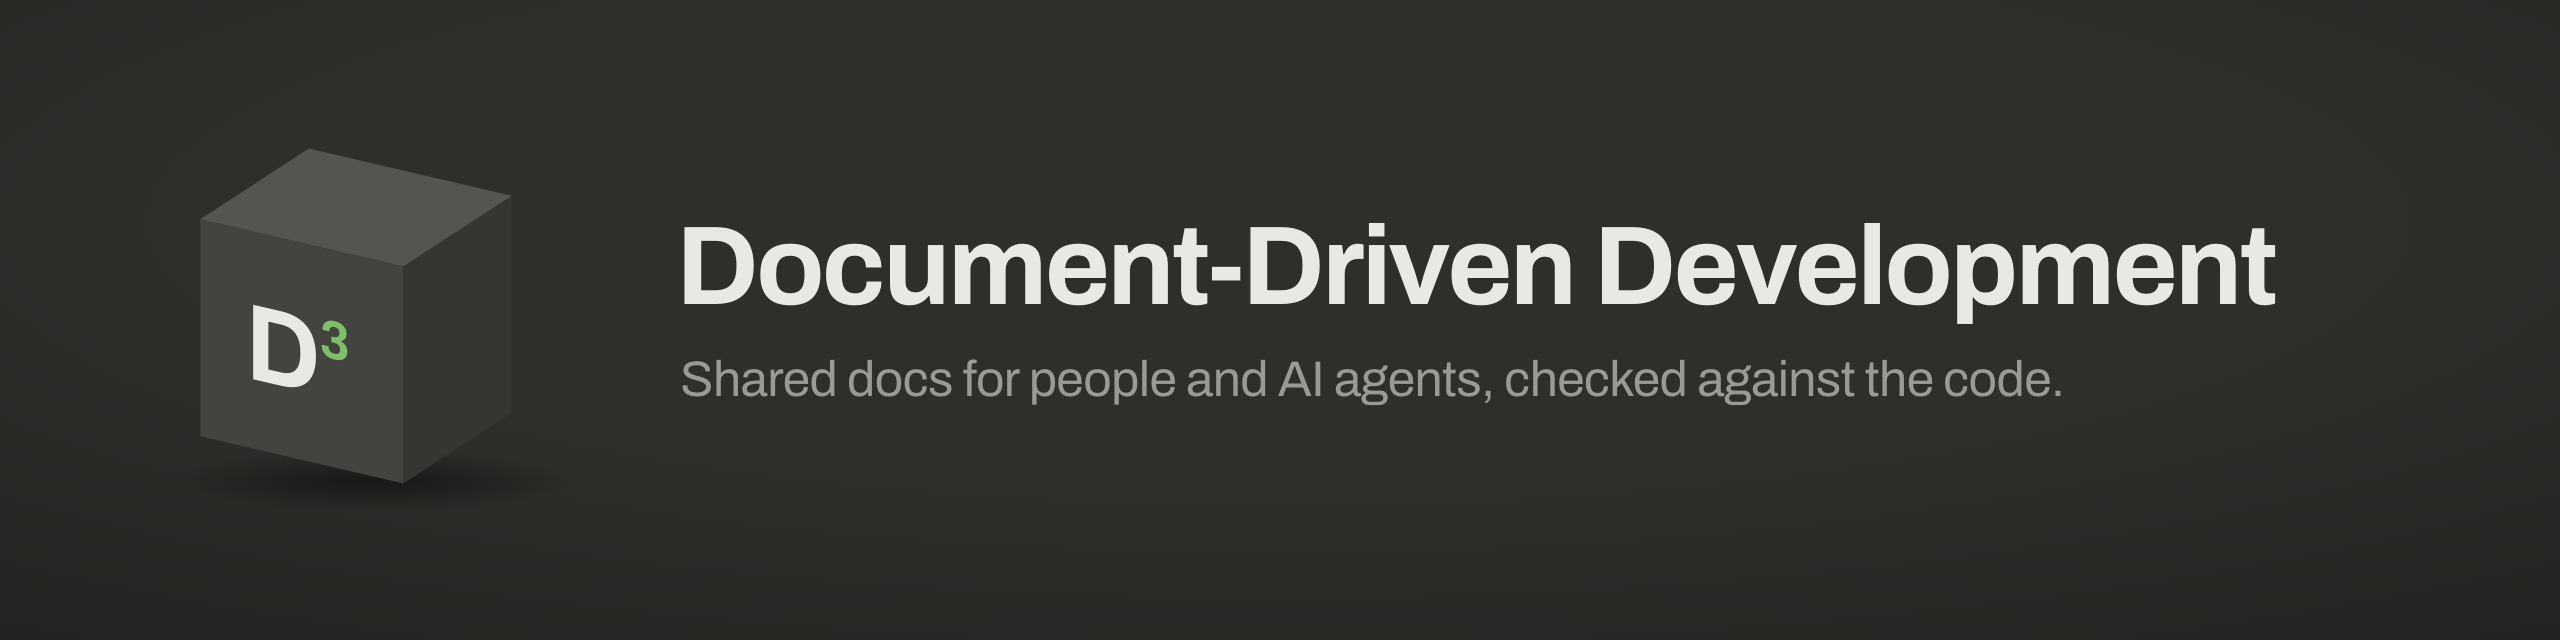
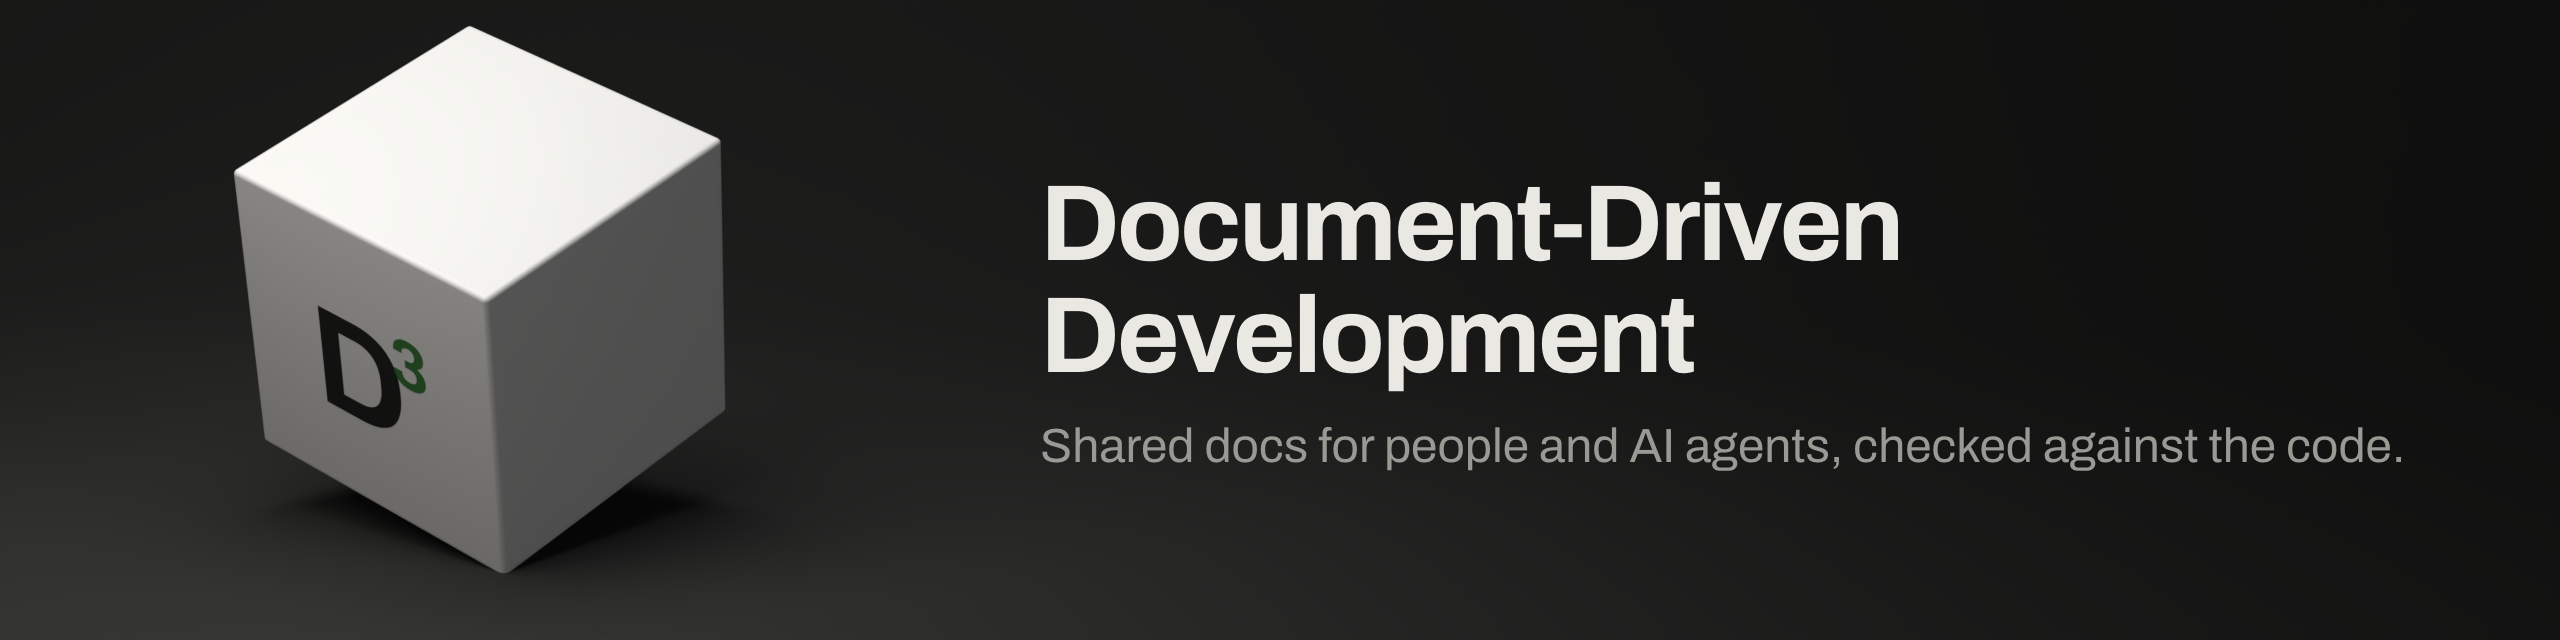
docs(readme): rewrite for people new to D³; loop diagram, film link, rendered brand
Plain intro (Jira, wiki, chat and heads), a numbered loop diagram in light and
dark, a link to the 78-second film on the v2.0.0 release, and a "Who it's for"
and "Works with any AI assistant" section above the reference material.
Banner and plugin icon are now Cycles product renders in the Braun palette.

diff --git a/README.md b/README.md
@@ -1,6 +1,6 @@
 <picture>
   <source media="(prefers-color-scheme: dark)" srcset="assets/banner-dark.png">
-  <img alt="Document-Driven Development (D³): docs your coding agent can work from, kept true in CI" src="assets/banner-light.png">
+  <img alt="Document-Driven Development (D³): shared docs for people and AI agents, checked against the code" src="assets/banner-light.png">
 </picture>
 
 [![CI](https://github.com/abuammarsami/d3/actions/workflows/ci.yml/badge.svg)](https://github.com/abuammarsami/d3/actions/workflows/ci.yml)
@@ -11,13 +11,26 @@
 [![AGENTS.md](https://img.shields.io/badge/AGENTS.md-any%20agent-3f7f3b)](https://agents.md)
 [![docs-check](https://img.shields.io/badge/docs--check-zero%20deps-brightgreen)](tools/docs-check/README.md)
 
-> **The repo holds the docs, so neither the people nor the agents have to guess from the code.**
+Every software team knows things the code doesn't say: why a rule exists, what the team decided, which
+bugs were already fixed once. Some of it sits in Jira tickets, wiki pages and old chat threads, and
+some only in people's heads. It's spread out, it drifts out of date, and an AI assistant working in
+the repo usually can't see it.
+
+**D³ (Document-Driven Development) writes that knowledge down inside the project, as short plain pages
+that people and AI assistants both read, and checks in CI that the pages still match the code.**
+
+[![Watch the 80-second film](assets/film-poster.png)](https://github.com/abuammarsami/d3/releases/download/v2.0.0/d3-film.mp4)
+
+## See it work
 
 ![A real run of the docs check: a business rule cites src/quota.js#canPost; after the function is renamed, the check reports the drift with the file and line](assets/demo.gif)
 
-*A real run, not a mock-up: the rule cites a function, someone renames it, and the docs check catches the stale doc.*
+This is a real run. A business rule names the function that enforces it. Someone renames the
+function, and the docs check points at the page that is now out of date, with the file and line.
 
 ## Quick start
+
+In Claude Code:
 
 ```text
 /plugin marketplace add abuammarsami/d3
@@ -25,58 +38,66 @@
 /d3:init
 ```
 
-`init` is a dry run until you say yes, and never overwrites a file. Other agents (Codex, Cursor,
-Copilot, Gemini…) need nothing installed: the result is `AGENTS.md` and `docs/`, which they already
-read.
+`init` shows you every file it would create and waits for your yes. It never overwrites a file, and
+on a repo that already has docs it only reports what is missing.
 
-## Why
+## How it works
 
-Code says *what* the system does. It does not say **why** a rule exists, **which decisions** are
-settled, **what broke last time**, or **what was agreed** for the feature being built. On most
-teams that lives in a few people's heads and in chat history. An AI agent starting a session, or a
-new engineer starting a job, has to reverse-engineer it from the code — slowly, and often wrong.
+<picture>
+  <source media="(prefers-color-scheme: dark)" srcset="assets/loop-dark.png">
+  <img alt="The D³ loop. Set up once with /d3:init. Then, for every task: 1 before a task, /d3:prime finds the few pages that apply and gives them to your AI assistant; 2 build, you and your assistant work as usual; 3 write it down, /d3:capture puts a new decision, rule or fixed bug on its page; 4 check the work, /d3:review compares the change with what the team agreed; 5 keep the docs true, /d3:check in CI flags any page that no longer matches the code." src="assets/loop-light.png">
+</picture>
 
-**D³** makes the repo hold it, in one shared system:
+1. **Before a task**, `/d3:prime` finds the three to six pages that govern it (the plan, past
+   decisions, business rules, how the module works) and gives the assistant one line about each.
+2. **Build** as you normally would.
+3. **Write it down.** When you learn something, `/d3:capture` files it on the right page and asks
+   before it writes.
+4. **Check the work.** `/d3:review` compares the branch with the plan's acceptance criteria and the
+   decisions and rules it might break, and lists behaviour that changed with no page updated.
+5. **Keep the docs true.** On every pull request, the docs check runs with no AI and fails or warns
+   when a page is broken or points at code that changed.
 
-- **Typed homes** — every fact has exactly one place: a decision is an ADR, a shipped bug is a
-  dated audit, a rule is a business-rule page, how a module works *today* is its module reference.
-- **A loop** — `prime` loads the few docs a task needs before work starts; `capture` files what was
-  learned after; `review` checks a PR against what was agreed; `check` keeps it all true in CI.
-- **Plain Markdown for everyone** — people read it on GitHub, any agent reads it through
-  `AGENTS.md`, and the linter runs with no AI at all.
+The habits come from how large engineering teams already work: design docs with acceptance criteria,
+written decision records (ADRs), blameless incident reviews and docs checked in CI. D³ sets them up
+in one command, so a solo developer or a small team can use them without a documentation department.
 
-It is the practice big engineering organizations rely on — design docs with acceptance criteria,
-ADRs, blameless postmortems, PR templates, docs CI — packaged so a solo builder gets it in one
-command and an experienced team gets it without the ceremony.
+## Who it's for
+
+- **Developers at any level.** Juniors get the context seniors carry in their heads. Seniors stop
+  answering the same "why is it like this?" question.
+- **Solo builders and people who build by prompting.** Your assistant stops undoing decisions it never
+  knew about.
+- **Product, QA and business colleagues.** The pages are plain English on GitHub, so you can read
+  the rules and decisions without reading code.
+
+## Works with any AI assistant
+
+| Part | Where it runs |
+|---|---|
+| The commands (`/d3:init`, `prime`, `capture`, `review`, `check`, `spec`, `status`) | Claude Code, as a plugin |
+| The pages D³ writes (`docs/` and `AGENTS.md`) | Anywhere: Codex, Cursor, GitHub Copilot, Gemini and any person on GitHub read them with nothing installed |
+| The docs check | Any CI, or as a GitHub Action. No AI, no npm install |
 
 ---
 
-## The loop
+## Reference
 
-```mermaid
-flowchart LR
-  init["/d3:init<br/>set up docs, AGENTS.md,<br/>PR template, CI"] --> prime
-  prime["/d3:prime<br/>load the 3–6 docs<br/>the task needs"] --> build["build<br/>(you + your agent)"]
-  build --> capture["/d3:capture<br/>file what was learned<br/>in its one home"]
-  capture --> check["/d3:check<br/>linter: links, vocabulary,<br/>drift, coverage"]
-  check --> review["/d3:review<br/>PR vs plan, ADRs, rules;<br/>undocumented work"]
-  review --> prime
-  spec["/d3:spec<br/>optional PRD"] -.-> capture
-```
+### Commands
 
 | Command | What it does |
 |---|---|
-| `/d3:init [--backfill]` | Sets up `docs/` (taxonomy + machine-read vocabulary), templates, a lean `AGENTS.md` that `CLAUDE.md` imports, a PR template, the docs linter and its CI. **Dry run first, never overwrites**, and only *reports* on a repo that already has a docs system. `--backfill` drafts module references and *proposed* ADRs from existing code. |
-| `/d3:prime <task>` | Loads the plan, ADRs, rules, module reference and flow that govern the task as a **compact context pack** — a line per doc, not a dump. `--diff [base]` picks the docs that cite the files a branch changed. |
-| `/d3:capture --<kind> <what>` | Files new knowledge in its canonical home with the right template, then does the follow-through (indexes, the current-state doc, the docs check). **Lists the files and asks before writing.** |
-| `/d3:spec <feature>` | Optional product spec (PRD): problem, users, non-goals, prioritized stories with Given/When/Then, `FR-###`, `SC-###`, open questions marked `[NEEDS CLARIFICATION]` — never guessed. |
-| `/d3:check [--drift] [--fix]` | Runs the linter and turns its findings into fixes. |
-| `/d3:review [PR#\|branch]` | Read-only: which acceptance criteria the change satisfies, which ADR or rule it contradicts, what behaviour changed with no doc updated, which citations it broke. |
+| `/d3:init [--backfill]` | Sets up `docs/` with one place for each kind of knowledge and a machine-read vocabulary, page templates, a short `AGENTS.md` that `CLAUDE.md` imports, a PR template, the docs check and its CI. Dry run first, never overwrites, and only reports on a repo that already has a docs system. `--backfill` drafts module references and *proposed* ADRs from existing code. |
+| `/d3:prime <task>` | Loads the plan, ADRs, rules, module reference and flow that govern the task as a compact context pack, one line per doc. `--diff [base]` picks the docs that cite the files a branch changed. |
+| `/d3:capture --<kind> <what>` | Files new knowledge on its page with the right template, then updates the indexes, the current-state doc and runs the docs check. Lists the files and asks before writing. |
+| `/d3:spec <feature>` | Optional product spec (PRD): problem, users, non-goals, prioritised stories with Given/When/Then, `FR-###`, `SC-###`, and open questions marked `[NEEDS CLARIFICATION]` instead of guessed. |
+| `/d3:check [--drift] [--fix]` | Runs the docs check and turns its findings into fixes. |
+| `/d3:review [PR#\|branch]` | Read-only. Which acceptance criteria the change satisfies, which ADR or rule it contradicts, what behaviour changed with no doc updated, which citations it broke. |
 | `/d3:status` | What is in flight, overdue for review, undocumented, or not yet graduated. |
 
-`/d3:d3` prints the help; `/d3:d3 <verb>` routes to the verbs above.
+`/d3:d3` prints the help, and `/d3:d3 <verb>` routes to the commands above.
 
-### Example: the loop catching a real mistake
+### Example: a review catching a real mistake
 
 ```text
 > /d3:review main
@@ -92,50 +113,46 @@ Verdict: needs changes
 Follow-ups:   intended? /d3:capture --decision "Paid users post without a monthly limit", then update the rule
 ```
 
-*(From a smoke test of this release; trimmed.)*
+*From a smoke test of this release, trimmed.*
 
----
+### Where each kind of knowledge goes
 
-## What goes where
-
-| Kind of knowledge | Home | Capture with |
+| Kind of knowledge | Page | Capture with |
 |---|---|---|
 | Future work, with numbered acceptance criteria | `docs/plans/{module}/{kebab}/README.md` | `--plan` |
 | Product spec (optional PRD) | `docs/specs/NNN-{kebab}/spec.md` | `/d3:spec` |
-| A hard-to-reverse decision | `docs/architecture/decisions/adr-NNNN-{kebab}.md` (MADR) | `--decision` |
-| How the system fits / how a request moves | `docs/architecture/views/`, `docs/architecture/flows/` | `--architecture`, `--flow` |
-| How a module works **today** | `docs/reference/modules/{module}.md` | `--module` |
+| A decision that is hard to reverse | `docs/architecture/decisions/adr-NNNN-{kebab}.md` (MADR) | `--decision` |
+| How the system fits together, how a request moves | `docs/architecture/views/`, `docs/architecture/flows/` | `--architecture`, `--flow` |
+| How a module works today | `docs/reference/modules/{module}.md` | `--module` |
 | A domain, pricing or entitlement rule | `docs/reference/business-rules/{domain}.md` | `--rule` |
 | A rule where one wrong edit costs money | `docs/reference/algorithms/` | `--algorithm` |
 | Domain model, data model, threat model | `docs/reference/{domain,generated/data-model,security/threat-models}/` | `--domain`, `--data-model`, `--threat` |
-| A shipped bug — dated, immutable | `docs/reference/audits/YYYY-MM-DD-{kebab}.md` | `--bug` |
-| A production incident — blameless, owned action items | `docs/reference/incidents/` | `--incident` |
+| A shipped bug, dated and never edited later | `docs/reference/audits/YYYY-MM-DD-{kebab}.md` | `--bug` |
+| A production incident, blameless, with owned action items | `docs/reference/incidents/` | `--incident` |
 | Procedures, how-tos, onboarding | `docs/runbooks/`, `docs/guides/`, `docs/guides/tutorials/` | `--runbook`, `--guide`, `--tutorial` |
 | A word the code uses | `docs/reference/glossary.md` | `--term` |
 
 Your repo's own `docs/README.md` always wins over these defaults.
 
-**Plans graduate.** When a plan ships, what outlives it moves to its permanent home (the module
-reference, the rule, the flow), which links back. Nobody should have to read a stack of old plans —
-or the code — to learn how the system works today.
+**Plans graduate.** When a plan ships, what outlives it moves to its permanent page (the module
+reference, the rule, the flow), which links back. Nobody should have to read a stack of old plans, or
+the code, to learn how the system works today.
 
----
+### The docs check
 
-## The docs check
+A Node script with no dependencies (`tools/docs-check/check.mjs`, Node 18+). `/d3:init` copies it
+into your repo and wires it into CI. It needs no AI and no npm install.
 
-A zero-dependency Node script (`tools/docs-check/check.mjs`, Node 18+) that `/d3:init` copies into
-your repo and wires into CI. It needs no AI and no npm install.
-
-- **Errors** (fail CI): frontmatter outside the vocabulary, broken links and anchors, Mermaid that
-  does not parse, a reused ADR or spec number, an open `[NEEDS CLARIFICATION]` in a settled doc.
-- **Warnings** (configurable): live plans without numbered acceptance criteria, **code citations
-  that drifted** (`path#Symbol` / `path:line` whose file, lines or symbol are gone — or, with a lock,
+- **Errors** fail CI: frontmatter outside the vocabulary, broken links and anchors, Mermaid that does
+  not parse, a reused ADR or spec number, an open `[NEEDS CLARIFICATION]` in a settled doc.
+- **Warnings** are configurable: live plans without numbered acceptance criteria, code citations that
+  drifted (`path#Symbol` or `path:line` whose file, lines or symbol are gone or, with a lock file,
   whose code changed), screenshots under `docs/`, incident action items without an owner,
-  undocumented modules, plans that shipped without graduating.
-- **Helpers**: `review-due`, `cites <path>` (which docs describe this code?), `drift --changed <base>`,
+  undocumented modules, and plans that shipped without graduating.
+- **Helpers:** `review-due`, `cites <path>` (which docs describe this code?), `drift --changed <base>`,
   `lock`, `--json`.
 
-Use it as a GitHub Action without vendoring:
+Use it as a GitHub Action without copying it in:
 
 ```yaml
 - uses: actions/checkout@v4
@@ -146,64 +163,60 @@ Use it as a GitHub Action without vendoring:
 
 Full reference: [tools/docs-check/README.md](tools/docs-check/README.md).
 
----
+### How it compares
 
-## Why, and how it compares
+The longer write-up:
+[Document-Driven Development (D³): Docs Are the Interface Your AI Works Through](https://ammar-portfolio-zeta.vercel.app/deep-dives/document-driven-development).
 
-Context engineering beats prompt engineering: the win is the right durable knowledge in front of the
-model at the right moment. Read the writeup —
-**[Document-Driven Development (D³): Docs Are the Interface Your AI Works Through](https://ammar-portfolio-zeta.vercel.app/deep-dives/document-driven-development)**.
-
-| | Spec-driven tools (Spec Kit, Kiro, BMAD) | Memory banks / generated wikis | **D³** |
+| | Spec-driven tools (Spec Kit, Kiro, BMAD) | Memory banks, generated wikis | D³ |
 |---|---|---|---|
-| Scope | One feature, forward-looking | The whole repo | The whole repo, for its lifetime |
-| Knows *why* (decisions, rules, past bugs) | Inside the feature's spec | No — generated from code | Yes — ADRs, rules, audits, incidents |
-| Stays true after the feature ships | No | Regenerated | `capture` + graduation + drift check |
-| Enforced in CI without AI | No | No | Yes |
-| Works with any agent | Mostly | Per tool | Yes (`AGENTS.md` + Markdown) |
+| Scope | One feature, planned ahead | The whole repo | The whole repo, for its lifetime |
+| Knows why (decisions, rules, past bugs) | Inside that feature's spec | No, it is generated from code | Yes: ADRs, rules, audits, incidents |
+| Stays true after the feature ships | No | Regenerated | `capture`, graduation and the drift check |
+| Checked in CI without AI | No | No | Yes |
+| Works with any agent | Mostly | Per tool | Yes, through `AGENTS.md` and Markdown |
 
-They combine well: a spec-driven tool can drive a feature while D³ keeps the repo's knowledge true,
-and behaviour guidelines such as the Karpathy-inspired `CLAUDE.md` shape *how* the agent works while
-D³ supplies *what is true* about the system.
+They combine well. A spec-driven tool can drive one feature while D³ keeps the repo's knowledge
+current, and behaviour guidelines such as the Karpathy-inspired `CLAUDE.md` shape how the agent works
+while D³ supplies what is true about the system.
 
-**Deliberately not here:** generating code from specs, a cast of role personas, mandatory heavy
-ceremony for small changes (a one-PR plan is five short sections), and LLM-written project overviews in
-`AGENTS.md` — a 2026 study found those make agents *worse*, while human-written conventions and
-commands help.
+**Left out on purpose:** generating code from specs, a cast of role personas, heavy ceremony for small
+changes (a one-PR plan is five short sections), and LLM-written project overviews in `AGENTS.md`. A
+2026 study found those make agents worse, while human-written conventions and commands help.
 
----
+### FAQ
 
-## FAQ
-
-**Does it change my repo without asking?** No. Write verbs list every file and wait for a yes.
+**Does it change my repo without asking?** No. Commands that write list every file and wait for a yes.
 `init` is a dry run until you confirm, never overwrites a file, and on a repo that already has a docs
 system it only reports what is missing.
 
-**My team already has docs and a different layout.** Put a `<!-- docs-check:vocabulary -->` block in
-your `docs/README.md` (or keep the one you have): D³ and the linter follow it.
+**Do we have to stop using Jira or Confluence?** No. Tickets track the work. D³ keeps the lasting
+reasons (decisions, rules, past bugs) next to the code they explain, and a page can link to the
+ticket it came from.
+
+**My team already has docs with a different layout.** Put a `<!-- docs-check:vocabulary -->` block in
+your `docs/README.md`, or keep the one you have. D³ and the docs check follow it.
 
 **Do we need a PRD for everything?** No. A plan with numbered acceptance criteria is the default.
 `/d3:spec` is for product questions that need their own review.
 
-**Is `prime` dumping all my docs into context?** No — 3–6 docs, a line each. That is the point.
+**Does `prime` dump all my docs into the context?** No. It loads three to six docs, one line each.
 
-**Does it need graphify, a session log, Cursor rules?** No. They are used only when they already
+**Does it need graphify, a session log or Cursor rules?** No. They are used only when they already
 exist ([shared/integrations.md](shared/integrations.md)).
 
----
+### Testing
 
-## Testing
+- `node --test tools/docs-check/test/*.test.mjs tools/init/test/*.test.mjs` runs the docs check and
+  scaffold tests, each rule proven both ways.
+- `evals/` has behaviour cases for every command (help, init safety, prime, prime --diff, capture
+  routing, ADR numbering and supersede, incidents, spec, review, check, answering from docs). Run them
+  with `claude plugin eval . --ablation with-without` to see the score with and without the plugin.
 
-- `node --test tools/docs-check/test/*.test.mjs tools/init/test/*.test.mjs` — the linter and the
-  scaffold, each rule proven both ways.
-- `evals/` — behaviour cases for every verb (help, init safety, prime, prime --diff, capture routing,
-  ADR numbering and supersede, incidents, spec, review, check, answering from docs), run with
-  `claude plugin eval . --ablation with-without` to see the score with and without the plugin.
+### Contributing
 
-## Contributing
-
-Issues and PRs welcome. This repo dogfoods itself: changes come with the doc that describes them, and
-CI runs the docs check.
+Issues and pull requests are welcome. This repo uses D³ on itself: a change comes with the doc that
+describes it, and CI runs the docs check.
 
 ## License
 
